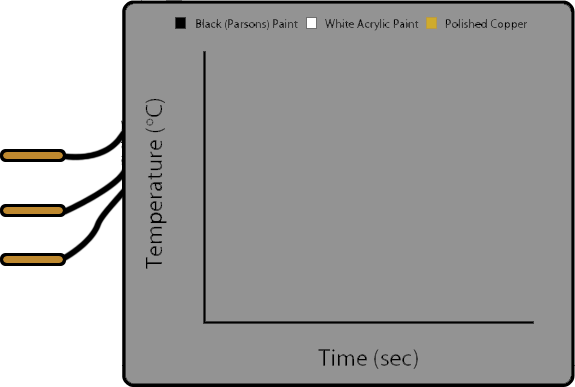
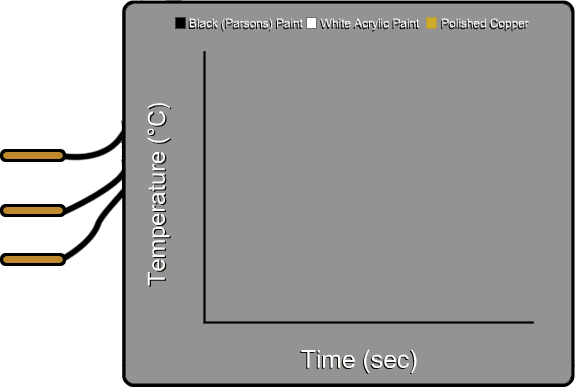
Finished updating light radiation sim

diff --git a/Priority_1_Heat_Transfer/Light_Radiation/lightRadiation.html b/Priority_1_Heat_Transfer/Light_Radiation/lightRadiation.html
@@ -12,10 +12,22 @@
 <head>
 	<meta http-equiv="Content-Type" content="text/html; charset=utf-8" />
 	<title>Heat Lamp Thermal Radiation Activity</title>
+
+    <!-- jQuery dependencies -->
+    <script src="https://ajax.googleapis.com/ajax/libs/jquery/1.10.2/jquery.min.js"></script>
+    <script src="../jquery-ui-1.9.2.custom.min.js"></script>
+
+    <!-- Bootstrap: Latest compiled and minified CSS -->
+    <link rel="stylesheet" href="https://maxcdn.bootstrapcdn.com/bootstrap/3.3.7/css/bootstrap.min.css" integrity="sha384-BVYiiSIFeK1dGmJRAkycuHAHRg32OmUcww7on3RYdg4Va+PmSTsz/K68vbdEjh4u" crossorigin="anonymous">
+
+    <!-- Bootstrap: Optional theme -->
+    <link rel="stylesheet" href="https://maxcdn.bootstrapcdn.com/bootstrap/3.3.7/css/bootstrap-theme.min.css" integrity="sha384-rHyoN1iRsVXV4nD0JutlnGaslCJuC7uwjduW9SVrLvRYooPp2bWYgmgJQIXwl/Sp" crossorigin="anonymous">
+
+    <!-- Bootstrap: Latest compiled and minified JavaScript -->
+    <script src="https://maxcdn.bootstrapcdn.com/bootstrap/3.3.7/js/bootstrap.min.js" integrity="sha384-Tc5IQib027qvyjSMfHjOMaLkfuWVxZxUPnCJA7l2mCWNIpG9mGCD8wGNIcPD7Txa" crossorigin="anonymous"></script>
+
 	<link href="lightRadiationStyle.css" type="text/css" rel="stylesheet" />
     <link href="https://ajax.googleapis.com/ajax/libs/jqueryui/1.8/themes/base/jquery-ui.css" rel="stylesheet" type="text/css"/>
-    <script type="text/javascript" src="https://ajax.googleapis.com/ajax/libs/jquery/1.8/jquery.min.js"></script>
-    <script src="https://ajax.googleapis.com/ajax/libs/jqueryui/1.8/jquery-ui.min.js"></script>
 	<script type="text/javascript" src="lightRadiationScript.js"></script>
 </head>
 
@@ -46,32 +58,23 @@
         <img id="copperPipe" name="copperPipe" alt="" src="copperPipe.png" />
         <img id="graphHolder" name="graphHolder" alt="" src="graphHolder.png" />
         <img id="graphBase" name="graphBase" alt="" src="graphAxis.png" />
-        <label id="ygraph1" name="ygraph1" alt="">50</label>
+        <label id="ygraph1" name="ygraph1" alt="">&nbsp;50</label>
         <label id="ygraph2" name="ygraph2" alt="">100</label>
         <label id="graph0" name="graph0" alt="">0</label>
         <label id="xgraph1" name="xgraph1" alt="">320</label>
         <label id="xgraph2" name="xgraph1" alt="">640</label>
-        <button id="startButton" name="startButton"><img src="startButton.png" /></button>
-        <button id="finishButton" name="finishButton"><img src="finishButton.png" /></button>
+
+        <!-- Bootstrap buttons -->
+        <a href="javascript:" id="startButton" name="startButton" class="btn btn-success btn-lg"">Start</a>
+        <a href="javascript:" id="finishButton" name="finishButton" class="btn btn-danger btn-lg"">Finish</a>
+        <a href="javascript:" id="helpButton" name="helpButton" class="btn btn-info btn-sm"><span class="glyphicon glyphicon-question-sign"></span></a>
+        <a href="javascript:" id="infoButton" name="infoButton" class="btn btn-default btn-sm"><span class="glyphicon glyphicon-info-sign"></span></a>
         
 		<div id="promptDiv" name="promptDiv">
        	  	<label id="startPrompt" name="startPrompt" alt="">Please choose an activity:</label>
 			<button id="heatingButton" name="heatingButton"><img src="heatingButton.png" /></button>
        		<button id="coolingButton" name="coolingButton"><img src="coolingButton.png" /></button>
         </div>
-        
-    	<p align="center" id="programInfo" name="programInfo">
-			(c) Margot Vigeant and Michael Prince 2012
-			<br /><br />
-			Produced through the efforts of Daniel Prudente
-			<br /><br />
-			Emissivity values referenced from Fundamentals of Heat and Mass Transfer, Third Edition
-			<br />
-			by Frank P. Incropera and David P. De Witt
-			<br /><br />
-			Supported by NSF DUE-1225031
-			<br /><br />
-		  Questions? Contact <a href="mailto:mvigeant@bucknell.edu">Dr. Margot Vigeant</a>, Bucknell University Department of Chemical Engineering							        </p>
     </div>
 </body>
 </html>

diff --git a/Priority_1_Heat_Transfer/Light_Radiation/lightRadiationStyle.css b/Priority_1_Heat_Transfer/Light_Radiation/lightRadiationStyle.css
@@ -6,6 +6,13 @@
  * (c) Margot Vigeant 2012
 */
 
+h1 {
+	font-family: "Times New Roman";
+	font-weight: bold;
+	font-size: 32px;
+	color: #000000;
+}
+
 /**********Class selectors************/
 
 .container {
@@ -14,8 +21,14 @@
 	margin-left:auto;
 	margin-right:auto;
 	width:600px;
+	font-family: "Times New Roman";
+	font-weight: normal;
 }
 
+/* The Bootstrap question-mark help button */
+.glyphicon {
+	font-size: 1.8em;
+}
 
 /**********Components of the box for calculation results************/
 
@@ -45,18 +58,36 @@
 
 #startButton {
 	position:absolute;
-	top:650px;
+	top:690px;
 	left:200px;
-	width:130px;
-	height:70px;
+	font-size: 20px;
+	font-family: Helvetica;
 }
 
-#finishButton {
+#startButton {
 	position:absolute;
-	top:650px;
+	top:690px;
 	left:200px;
-	width:130px;
-	height:70px;
+	font-size: 20px;
+	font-family: Helvetica;
+}
+
+#helpButton {
+	position:absolute;
+	top:689px;
+	left:282px;
+	font-size: 20px;
+	height: 48px;
+	font-family: Helvetica;
+}
+
+#infoButton {
+	position:absolute;
+	top:689px;
+	left:346px;
+	font-size: 20px;
+	height: 48px;
+	font-family: Helvetica;
 }
 
 
@@ -79,35 +110,50 @@
 	position:absolute;
 	z-index:1;
 	top:435px;
-	left:375px;
+	left:378px;
+	color: white;
+	font-family: Arial;
+	font-weight: normal;
 }
 
 #ygraph2 {
 	position:absolute;
 	z-index:1;
 	top:305px;
-	left:375px;
+	left:378px;
+	color: white;
+	font-family: Arial;
+	font-weight: normal;
 }
 
 #graph0 {
 	position:absolute;
 	z-index:1;
-	top:585px;
-	left:390px;
+	top:580px;
+	left:398px;
+	color: white;
+	font-family: Arial;
+	font-weight: normal;
 }
 
 #xgraph1 {
 	position:absolute;
 	z-index:1;
-	top:585px;
+	top:580px;
 	left:555px;
+	color: white;
+	font-family: Arial;
+	font-weight: normal;
 }
 
 #xgraph2 {
 	position:absolute;
 	z-index:1;
-	top:585px;
+	top:580px;
 	left:720px;
+	color: white;
+	font-family: Arial;
+	font-weight: normal;
 }
 
 .sit1Point {
@@ -203,7 +249,9 @@
 	top:30px;
 	left:70px;
 	z-index:2;
+	height:20px;
 	width:50px;
+	font-family: Arial;
 }
 
 #ovenTempLabel {
@@ -212,6 +260,8 @@
 	left:90px;
 	z-index:2;
 	color: white;
+	font-weight: normal;
+	font-size: 16px;
 }
 
 #ovenTempRange {
@@ -220,6 +270,8 @@
 	left:160px;
 	z-index:2;
 	color: white;
+	font-weight: normal;
+	font-size: 16px;
 }
 
 #ovenTempUnits {
@@ -228,6 +280,8 @@
 	left:130px;
 	z-index:2;
 	color: white;
+	font-weight: normal;
+	font-size: 16px;
 }
 
 /**********Components of the box for the prompt************/
@@ -235,8 +289,8 @@
 	position:absolute;
 	left:0px;
 	top:135px;
-	height:300px;
-	width:600px;
+	height:330px;
+	width:620px;
 	padding:10px;
 	z-index:1;
 	border-style:solid;
@@ -249,6 +303,8 @@
 	font-size:40px;
 	left:100px;
 	top:70px;
+	font-family: "Times New Roman";
+	font-weight: normal;
 }
 
 #heatingButton{

diff --git a/Priority_1_Heat_Transfer/Light_Radiation/lightRadiationScript.js b/Priority_1_Heat_Transfer/Light_Radiation/lightRadiationScript.js
@@ -80,11 +80,13 @@ function init() {
 
 	generateGraphPoints();
 
-	$("#heatingButton").live('click', changeToHeat);
-	$("#coolingButton").live('click', changeToCool);
-	$("#startButton").live('click', startSimulation);
-	$("#finishButton").live('click', finishSimulation);
-	$("#ovenTemp").live('change', getOvenTemp);
+	$("#heatingButton").on('click', changeToHeat);
+	$("#coolingButton").on('click', changeToCool);
+	$("#startButton").on('click', startSimulation);
+	$("#finishButton").on('click', finishSimulation);
+	$("#helpButton").on('click', displayHelp);
+	$("#infoButton").on('click', displayInfo);
+	$("#ovenTemp").on('change', getOvenTemp);
 
 	selectMode();
 }
@@ -143,7 +145,7 @@ function changeToHeat() {
 	});
 
 	maxGraphTemp = 100;
-	$("#ygraph1").html('50');
+	$("#ygraph1").html('&nbsp;&nbsp;50');
 	$("#ygraph2").html('100');
 	light = 0;
 	isHeating = true;
@@ -416,4 +418,28 @@ function finishSimulation() {
 	}
 
 	selectMode();
+}
+
+/*
+ * Displays a pop-up alert containing information pertaining to the use of this
+ * simulation. Called when the user presses the help button.
+ */
+function displayHelp() {
+	alert("Select either heating or cooling to begin. When heating, drag the slider to select the " +
+		"intensity of the light. When cooling, set the temperature on the oven.\n\nPress start to see " +
+		"how the copper rods heat or cool with respect to their surface characteristics.");
+}
+
+/*
+ * Displays a pop-up alert containing information pertaining to the licensing of 
+ * this simulation. Called when the user presses the info button.
+ */
+function displayInfo() {
+	alert("Produced through the efforts of Daniel Prudente\n\n" + 
+		"Emissivity values referenced from Fundamentals of Heat and Mass Transfer, Third Edition " +
+		"by Frank P. Incropera and David P. De Witt\n\n" + 
+		"Supported by NSF DUE-1225031\n\n" + 
+		"Questions? Contact Dr. Margot Vigeant, Bucknell University Department of Chemical " +
+		"Engineering at mvigeant@bucknell.edu.\n\n" +
+		"\u00A9 Margot Vigeant and Michael Prince 2012");
 }
